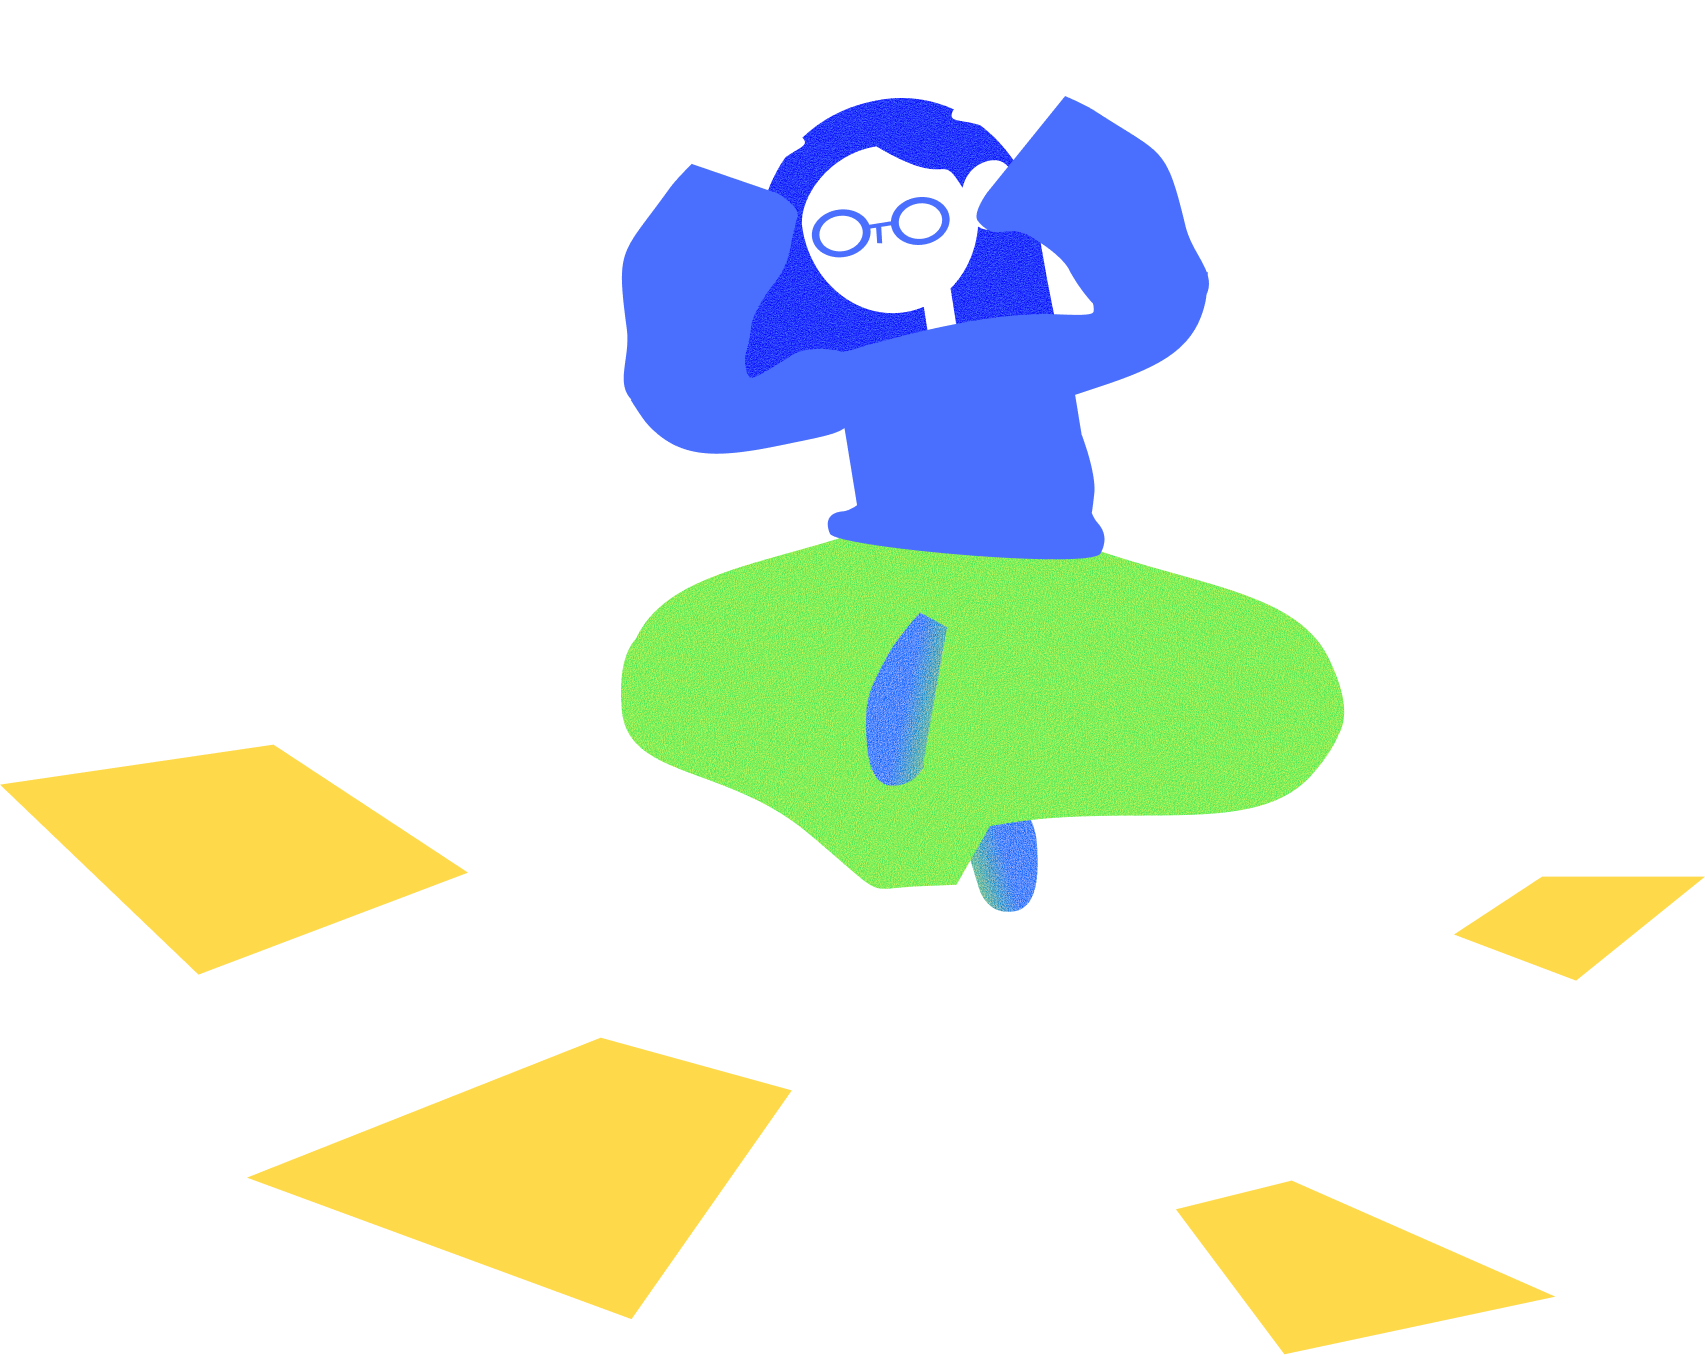
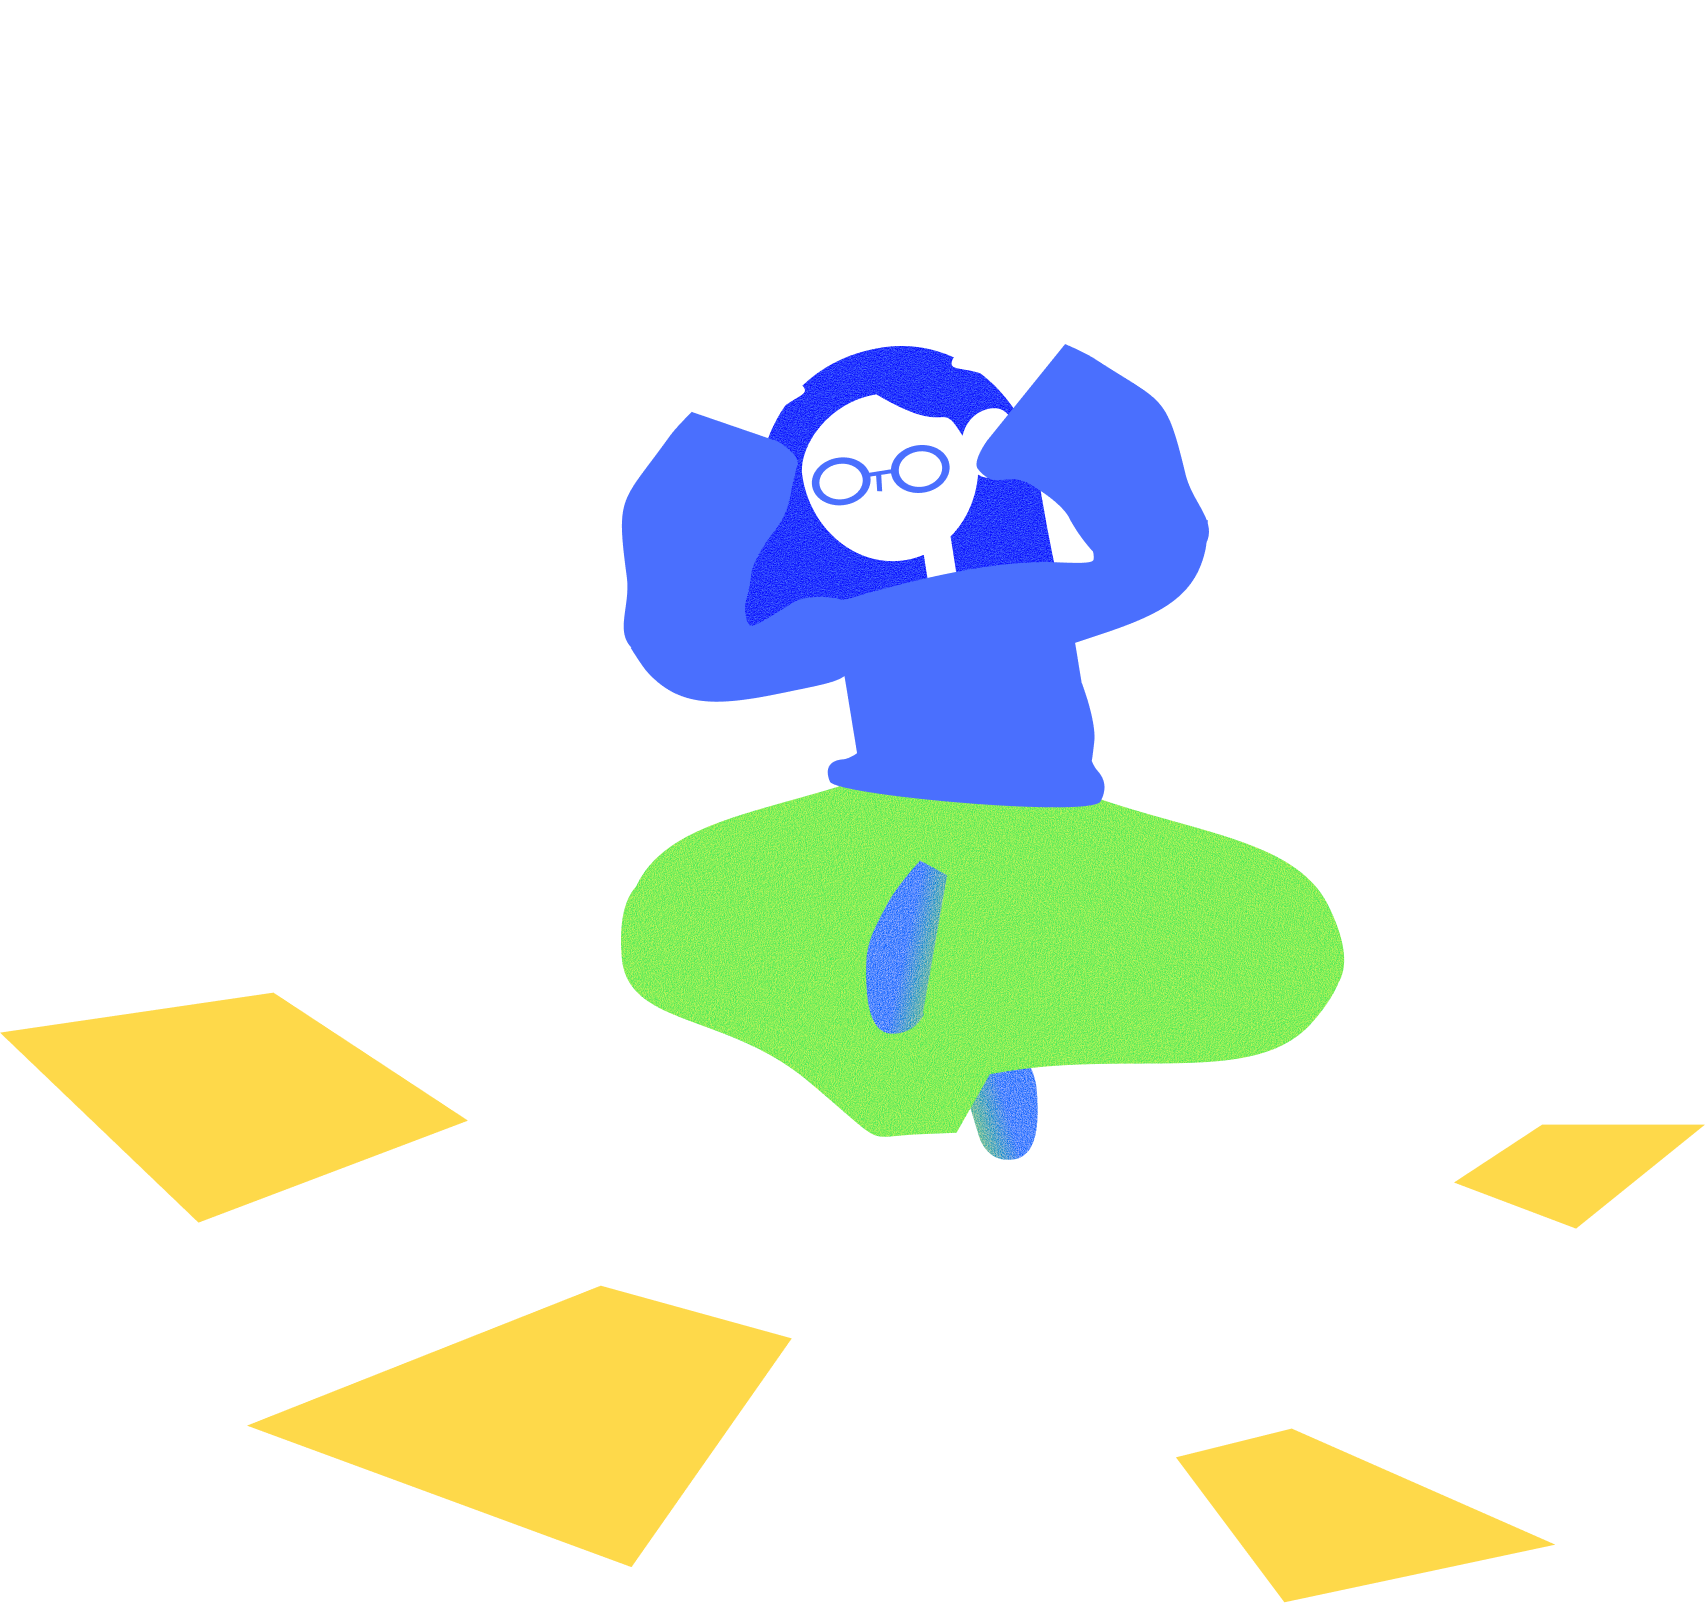
修正：404排版

diff --git a/final-project/src/views/Error.vue b/final-project/src/views/Error.vue
@@ -1,15 +1,17 @@
 <script setup>
-
+  import Peggy from '../components/Peggy.vue';
 </script>
 
 <template>
   <div class="error-page">
-    <div class="error-msg">
-      <img src="../assets/images/404.png" alt="404">
-      <h2>找不到此頁面</h2>
-    </div>
-    <div class="error-img">
-      <img src="../assets/images/Error.png" alt="peggy">
+    <div class="content-container">
+      <div class="number-wrapper">
+        <img class="img-404" src="../assets/images/404.png" alt="404">
+        <div class="peggy-position">
+          <Peggy></Peggy>
+        </div>
+      </div>
+      <h2 class="error-txt">找不到此頁面</h2>
     </div>
   </div>
 </template>
@@ -17,24 +19,42 @@
 
 
 <style lang="scss" scoped>
-  .error-msg{
+  .error-page{
     display: flex;
     justify-content: center;
     align-items: center;
+    min-height: 100vh;
+    background-color:var(----color-neutral-200);
+    text-align: center;
+  }
+  
+  .content-container{
+    display: flex;
     flex-direction: column;
-    position: relative;
-    top: 170px;
-    left: -290px;
-    img{
-      margin-bottom: 70px;
-    }
+    align-items: center;
+    width: 100%;
+    gap: 10vh;
   }
-  .error-img{
+
+  .number-wrapper{
     position: relative;
-    top: -120px;
-    left: 1001px;
-    img{
-      width:30%
-    }
+    display: inline-block;
+    width: 60vw;
+    max-width: 800px;
   }
+  .img-404{
+    width: 90%;
+    height: auto;
+  }
+  .peggy-position{
+    position: absolute;
+    bottom: -42%;
+    right: -25%;
+    width: 50%;
+  }
+  .error-text {
+  margin-top: 2rem;
+  font-size: clamp(1.5rem, 4vw, 2.5rem);
+  color: var(--color-text-primary);
+}
 </style>

diff --git a/final-project/src/components/Peggy.vue b/final-project/src/components/Peggy.vue
@@ -7,18 +7,17 @@ const container = ref(null)
 onMounted(() => {
   const frames = container.value.querySelectorAll('.peggy-frame')
   
-  const tl = gsap.timeline({ repeat: -1 }) // 無限循環
+  const tl = gsap.timeline({ repeat: -1 })
 
-  // 每一幀停留的時間，可以根據體感調整 (例如 0.2 秒)
   const frameDuration = 0.3 
 
   frames.forEach((frame, index) => {
     tl.to(frame, {
       display: 'block',
-      duration: 0, // 瞬間切換
+      duration: 0,
     }, index * frameDuration)
     
-    // 如果不是最後一幀，在下一幀開始時隱藏自己
+
     tl.to(frame, {
       display: 'none',
       duration: 0,
@@ -39,22 +38,24 @@ onMounted(() => {
 <style scoped>
 .peggy-wrapper {
   position: relative;
-  width: 300px; /* 根據你的需求調整尺寸 */
+  width: 100%;
   height: auto;
+  display: flex;
+  align-items: flex-end;
 }
 
 .peggy-frame {
   position: absolute;
-  top: 0;
+  bottom: 0;
   left: 0;
   width: 100%;
   height: auto;
-  display: none; /* 預設全部隱藏 */
+  display: none;
 }
 
-/* 確保第一幀在載入時先顯示，避免閃爍 */
 .peggy-frame.first {
-  position: relative; /* 讓容器有高度撐開 */
+  position: relative;
   display: block;
+  opacity: 1;
 }
 </style>

diff --git a/final-project/src/App.vue b/final-project/src/App.vue
@@ -1,7 +1,6 @@
 <script setup>
   import Footer from './components/Footer.vue';
   import Header from './components/Header.vue'
-  import Peggy from './components/Peggy.vue';
 
 </script>
 
@@ -9,7 +8,6 @@
   <Header></Header>
   <main>
     <RouterView ></RouterView>
-    <!-- <Peggy/> -->
   </main>
   <Footer></Footer>
 </template>
